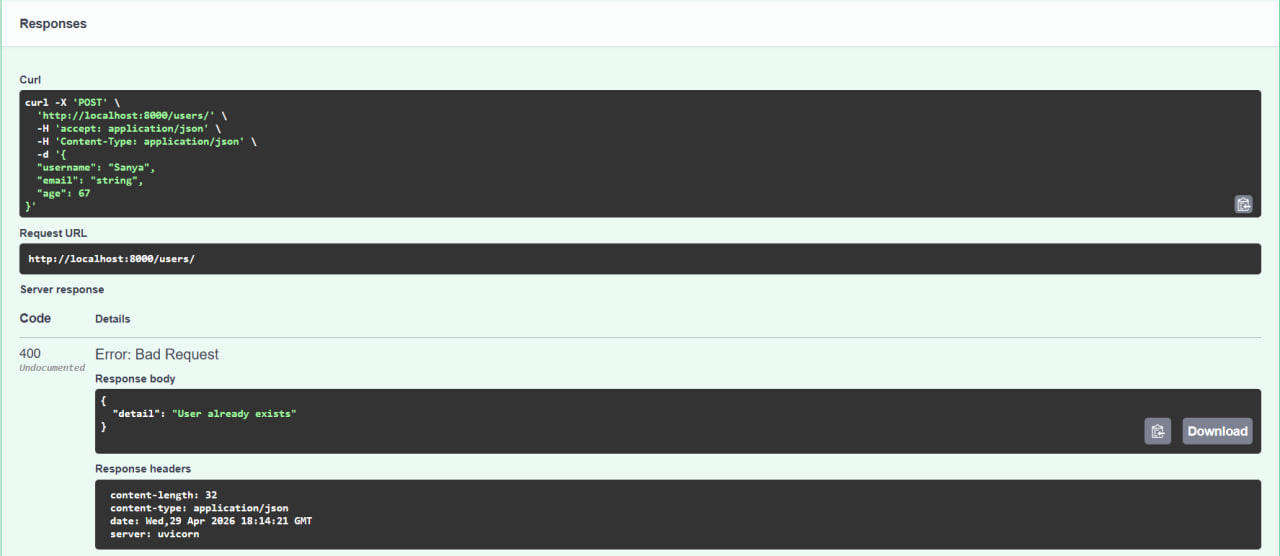
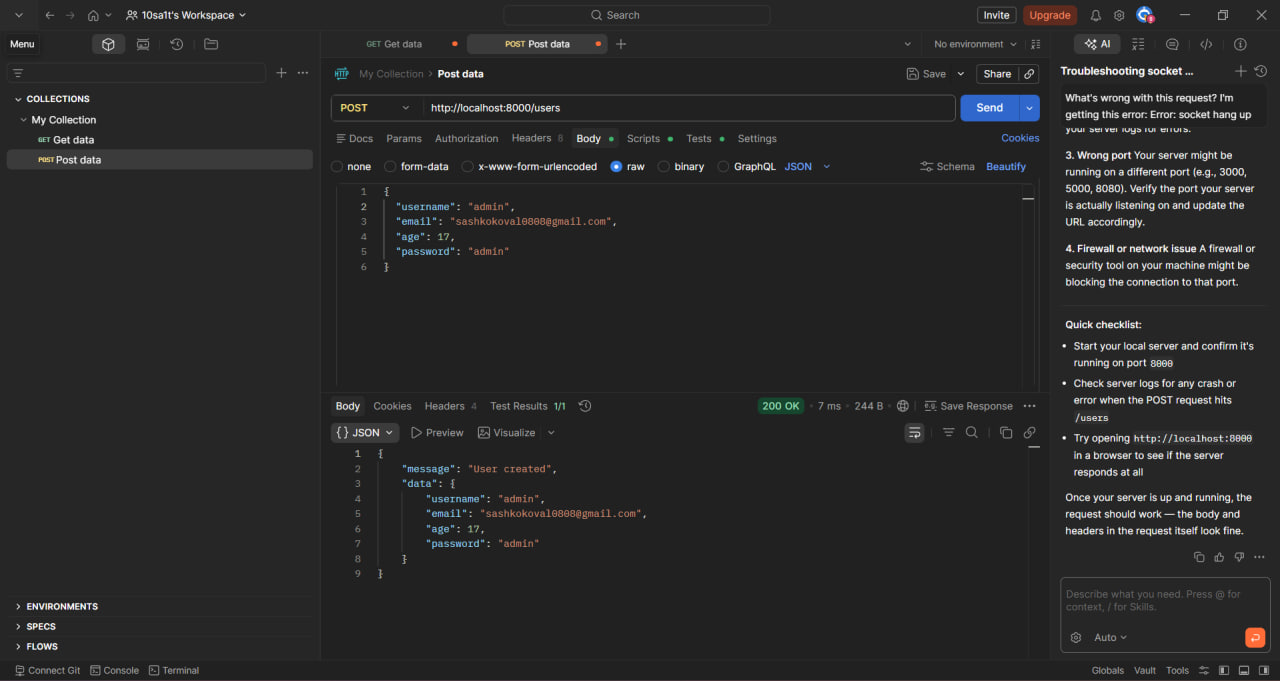
Лаб 3 поміняв код + скріни

diff --git a/app/api/users.py b/app/api/users.py
@@ -1,15 +1,16 @@
 from fastapi import APIRouter, HTTPException
-from app.schemas.user import UserSchema
+# Імпортуємо правильну назву класу, яку ми створили в schemas/user.py
+from app.schemas.user import UserCreate
 
 router = APIRouter(prefix="/users", tags=["users"])
 
 users_db = {}
 
 @router.post("/")
-def create_user(user: UserSchema):
+def create_user(user: UserCreate):
     if user.email in users_db:
         raise HTTPException(status_code=400, detail="User already exists")
-    users_db[user.email] = user.model_dump() # Зберігаємо дані
+    users_db[user.email] = user.model_dump()
     return {"message": "User created", "data": user}
 
 @router.get("/")
@@ -23,7 +24,7 @@ def get_user(email: str):
     return users_db[email]
 
 @router.put("/{email}")
-def update_user(email: str, updated_user: UserSchema):
+def update_user(email: str, updated_user: UserCreate):
     if email not in users_db:
         raise HTTPException(status_code=404, detail="User not found")
     users_db[email] = updated_user.model_dump()

diff --git a/app/main.py b/app/main.py
@@ -1,10 +1,13 @@
 from fastapi import FastAPI
 from app.api.users import router as user_router
 
-app = FastAPI(title="User CRUD API")
-
+app = FastAPI(
+    title="User CRUD API",
+    description="API для керування користувачами (Лабораторна робота №3)",
+    version="1.0.0"
+)
 app.include_router(user_router)
 
-@app.get("/")
-def root():
-    return {"message": "API is working. Go to /docs for Swagger UI"}
+@app.get("/", tags=["Root"])
+async def root():
+    return {"message": "SixSevenSIXSEVEEEEEEEEEEEEEEEEEEEEEEN676767"}

diff --git a/app/schemas/user.py b/app/schemas/user.py
@@ -1,9 +1,7 @@
 from pydantic import BaseModel
 
-class UserSchema(BaseModel):
+class UserCreate(BaseModel):
     username: str
     email: str
     age: int
-
-    class Config:
-        from_attributes = True
+    password: str
